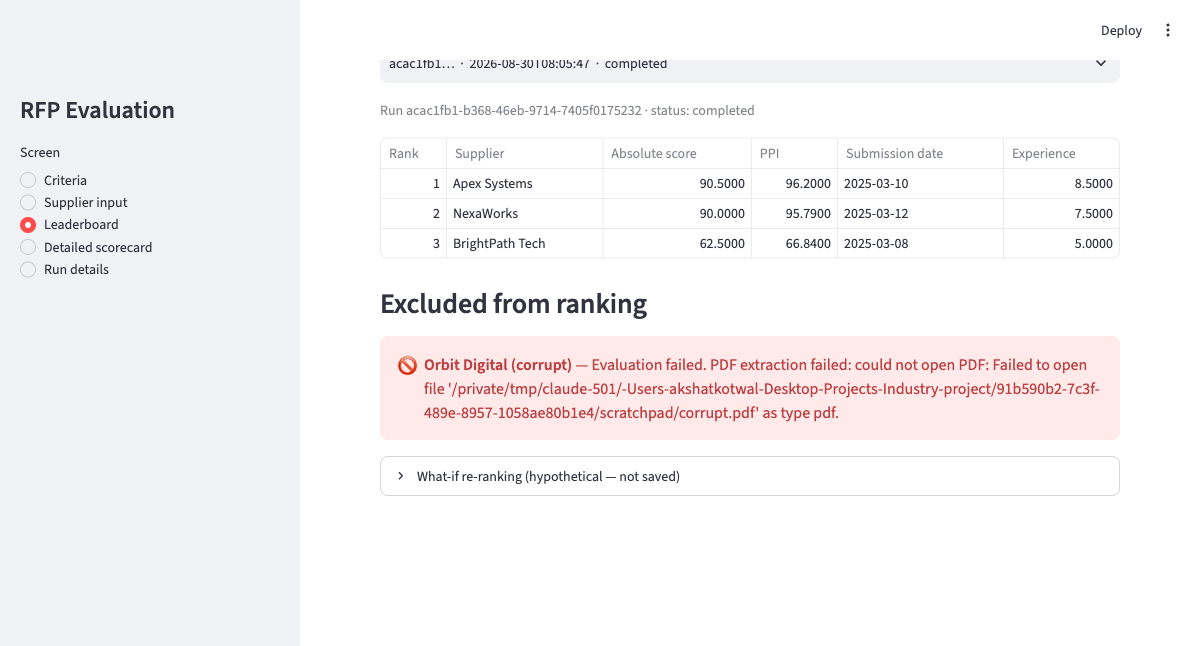
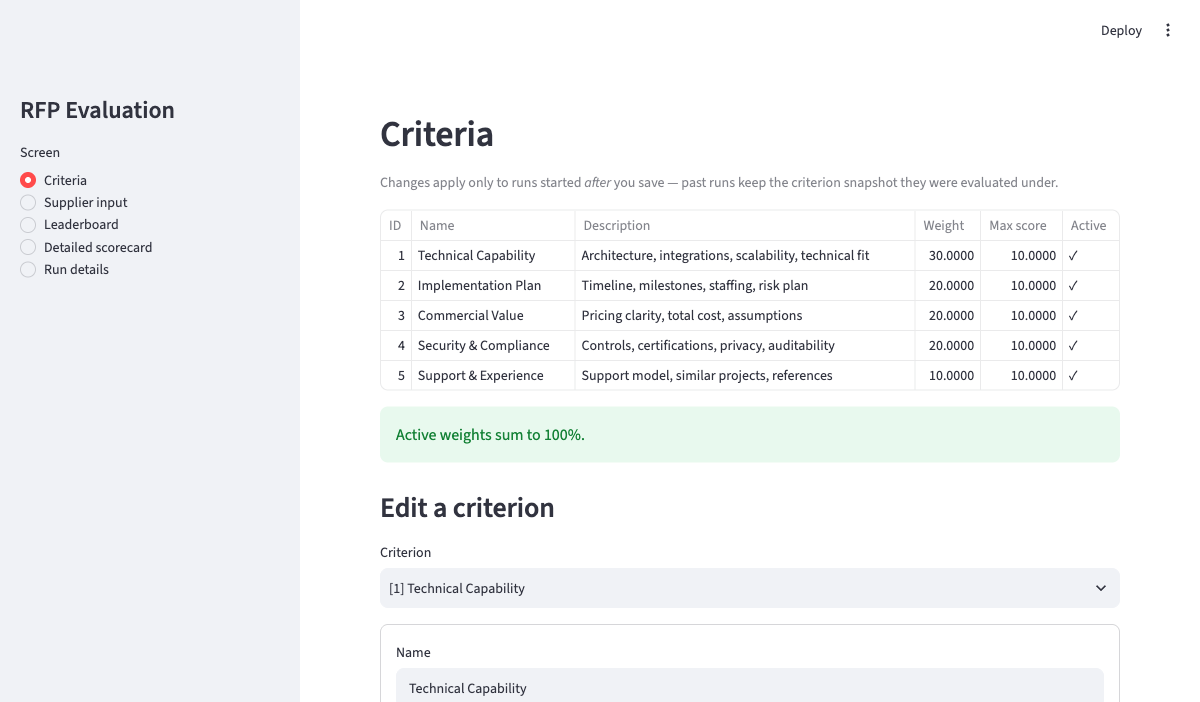
Phase 6: live run artifacts — sample JSON, screenshots, env-load fix
- Live end-to-end run over the 4 sample supplier PDFs via Gemini 2.5 Flash
- sample_data/sample_run_result.json exported (Run Details shape)
- docs/screenshots/: all 5 screens, incl. leaderboard with an excluded
  corrupt-PDF supplier and the warning surfaced in Run Details
- streamlit_app.py: load .env from the app dir with override=True so an
  empty shell GEMINI_API_KEY can't shadow the real value
- README screenshots section now embeds the images

Claude-Session: https://claude.ai/code/session_01MwfySkHSw8qTKZEjJSead6

diff --git a/PROGRESS.md b/PROGRESS.md
@@ -9,7 +9,7 @@ Short status only. Details live in `PLAN.md`, `specs/`, and the code.
 | 3 — Validation & Scoring | Done | 2026-08-30 | validation_tool.py, scoring.py. Done-check passed: hand-computed fixture matches, Edge Cases 2–7 demonstrated. |
 | 4 — Ranking & Orchestration | Done | 2026-08-30 | ranking.py, orchestrator.py. Done-check passed: edge cases 8–11, stubbed full pipeline persists gapless ranks + frozen snapshot, forced mid-pipeline exception resolves status to `failed`, freeze-once verified. |
 | 5 — Streamlit UI | Code complete | 2026-08-30 | streamlit_app.py — all 5 screens (Criteria w/ no-delete + 100% weight guard + run lock, Supplier input w/ validation, Leaderboard w/ failed-supplier split + optional what-if re-rank, Detailed scorecard, Run details w/ JSON download). Boots clean headless (HTTP 200). End-to-end manual done-check deferred — needs real PDFs + GEMINI_API_KEY. |
-| 6 — Polish & Submission | In progress | 2026-08-30 | README.md written (setup, architecture, formulas, Assumptions, deploy steps, screenshot placeholders). requirements.txt pinned to verified versions. git repo initialised and pushed to GitHub (AKSHATKOTWAL1122/RFP_Project, branch `main`). Collaboration notebook removed from the project. **Pending (needs user):** 4 supplier PDFs in data/sample_pdfs/ → live run → sample_data/sample_run_result.json + screenshots; GitHub push + Streamlit Cloud deploy + record URL. |
+| 6 — Polish & Submission | In progress | 2026-08-30 | README.md written (setup, architecture, formulas, Assumptions, deploy steps, screenshot placeholders). requirements.txt pinned to verified versions. git repo initialised and pushed to GitHub (AKSHATKOTWAL1122/RFP_Project, branch `main`). Collaboration notebook removed from the project. Live run completed against 4 sample PDFs — `sample_data/sample_run_result.json` exported, 5 screen screenshots in `docs/screenshots/`, broken-input (corrupt PDF) case demonstrated with the supplier excluded from ranking and the warning surfaced in Run Details. **Pending (needs user):** Streamlit Community Cloud deploy + record public URL. |
 
 ## Environment
 - Local `.venv` (Python 3.14); deps installed ad hoc for verification, pinned in Phase 6.

diff --git a/README.md b/README.md
@@ -190,15 +190,22 @@ implemented as a named constant or a commented policy, not a silent guess.
 
 ### Screenshots
 
-_Add one screenshot per screen here after running locally:_
+Captured from a live run over the four sample supplier PDFs (Gemini 2.5 Flash).
 
-| Screen | Screenshot |
-|---|---|
-| Criteria | `docs/screenshots/criteria.png` |
-| Supplier input | `docs/screenshots/supplier-input.png` |
-| Leaderboard | `docs/screenshots/leaderboard.png` |
-| Detailed scorecard | `docs/screenshots/scorecard.png` |
-| Run details | `docs/screenshots/run-details.png` |
+**Criteria**
+![Criteria screen](docs/screenshots/criteria.png)
+
+**Supplier input**
+![Supplier input screen](docs/screenshots/supplier-input.png)
+
+**Leaderboard** (three ranked suppliers; one supplier with a corrupt PDF excluded from ranking)
+![Leaderboard screen](docs/screenshots/leaderboard.png)
+
+**Detailed scorecard**
+![Detailed scorecard screen](docs/screenshots/scorecard.png)
+
+**Run details**
+![Run details screen](docs/screenshots/run-details.png)
 
 ---
 
